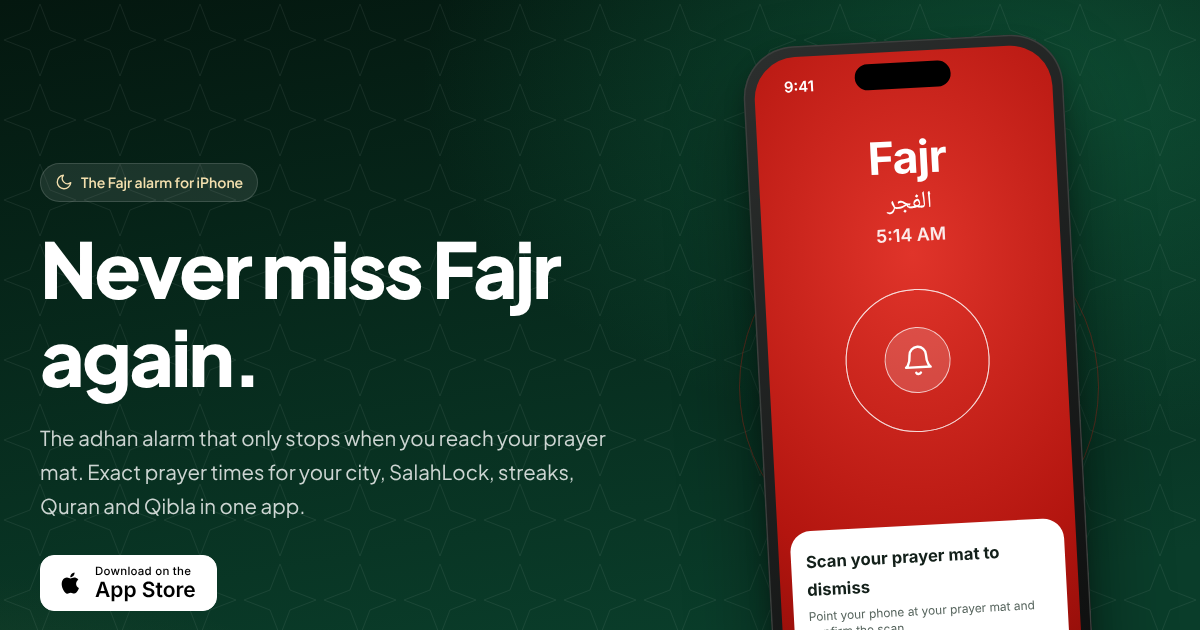
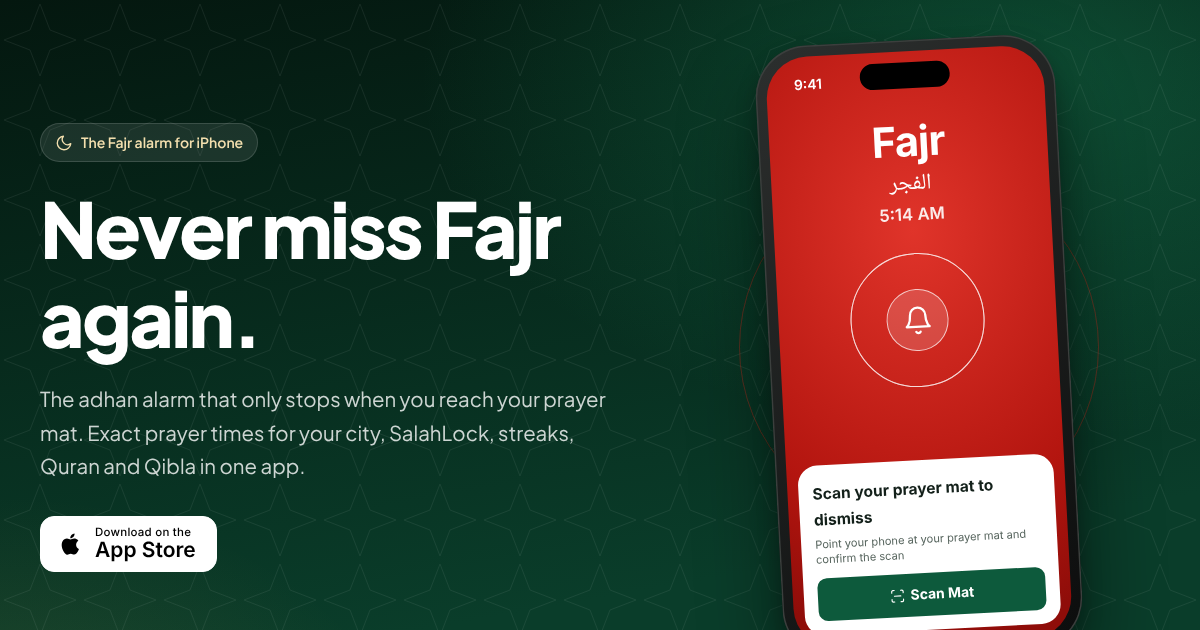
Give the iPhone mockup real iPhone proportions
The frame used the screen's pixel ratio, which made the phone look stretched
once the bezel was added. Use the device's body ratio, shrink the hero phone
on small screens and tighten the alarm screen spacing.

Claude-Session: https://claude.ai/code/session_0135BWV2ARnCAk6aHTT9ABDJ

diff --git a/website/static/styles.css b/website/static/styles.css
@@ -155,7 +155,7 @@ html[dir="rtl"] .link-arrow .icon, html[dir="rtl"] .card-more .icon { transform:
 
 /* Phone frame */
 .phone {
-  position: relative; width: 300px; aspect-ratio: 1290 / 2796;
+  position: relative; width: 300px; aspect-ratio: 71.5 / 146.5; /* real iPhone body */
   padding: 11px; border-radius: 52px;
   background: linear-gradient(145deg, #2c2f2e, #0c0d0d);
   box-shadow: 0 0 0 1.5px #3b3f3d inset, 0 40px 80px rgb(0 0 0 / 45%), 0 10px 20px rgb(0 0 0 / 25%);
@@ -163,7 +163,7 @@ html[dir="rtl"] .link-arrow .icon, html[dir="rtl"] .card-more .icon { transform:
 .phone::after { content: ""; position: absolute; top: 22px; left: 50%; width: 30%; height: 26px; transform: translateX(-50%); border-radius: 20px; background: #000; }
 .phone-screen { width: 100%; height: 100%; border-radius: 42px; overflow: hidden; background: #000; }
 .phone-screen img { width: 100%; height: 100%; object-fit: cover; }
-.phone-hero { width: min(320px, 72vw); transform: rotate(-3deg); }
+.phone-hero { width: min(300px, 72vw); transform: rotate(-3deg); }
 .phone-step { width: 62%; margin: 22px auto 0; }
 .phone-step::after { top: 14px; height: 16px; }
 .phone-aside { width: 150px; margin: 0 auto 18px; padding: 6px; border-radius: 28px; }
@@ -380,7 +380,7 @@ html[dir="rtl"] .prose blockquote { border-radius: 14px 0 0 14px; }
   .prose { font-size: 17.5px; }
   .prose h2 { font-size: 24px; }
   .cta-inline { flex-direction: column; }
-  .phone-hero { width: 58vw; }
+  .phone-hero { width: min(230px, 56vw); }
 }
 
 /* Alarm screen drawn in HTML (container-relative units so it scales with the frame) */
@@ -391,10 +391,10 @@ html[dir="rtl"] .prose blockquote { border-radius: 14px 0 0 14px; }
   color: #fff; font-family: -apple-system, BlinkMacSystemFont, var(--font); text-align: center;
 }
 .alarm-status { width: 100%; display: flex; justify-content: space-between; padding: 6cqw 10cqw 0; font-size: 5cqw; font-weight: 600; }
-.alarm-name { margin: 14cqw 0 0; font-size: 15cqw; font-weight: 700; letter-spacing: -0.02em; line-height: 1; }
+.alarm-name { margin: 11cqw 0 0; font-size: 15cqw; font-weight: 700; letter-spacing: -0.02em; line-height: 1; }
 .alarm-ar { margin: 3cqw 0 0; font-size: 8cqw; font-family: "Noto Naskh Arabic", serif; line-height: 1.2; }
 .alarm-time { margin: 1cqw 0 0; font-size: 6cqw; font-weight: 600; opacity: .9; }
-.alarm-pulse { position: relative; width: 48cqw; height: 48cqw; margin: 13cqw 0 0; display: grid; place-items: center; }
+.alarm-pulse { position: relative; width: 48cqw; height: 48cqw; margin: 9cqw 0 0; display: grid; place-items: center; }
 .alarm-pulse span { position: absolute; inset: 0; border-radius: 50%; border: .6cqw solid rgb(255 255 255 / 45%); animation: ring 3s ease-out infinite; }
 .alarm-pulse span:nth-child(2) { animation-delay: 1s; }
 .alarm-pulse span:nth-child(3) { animation-delay: 2s; }
